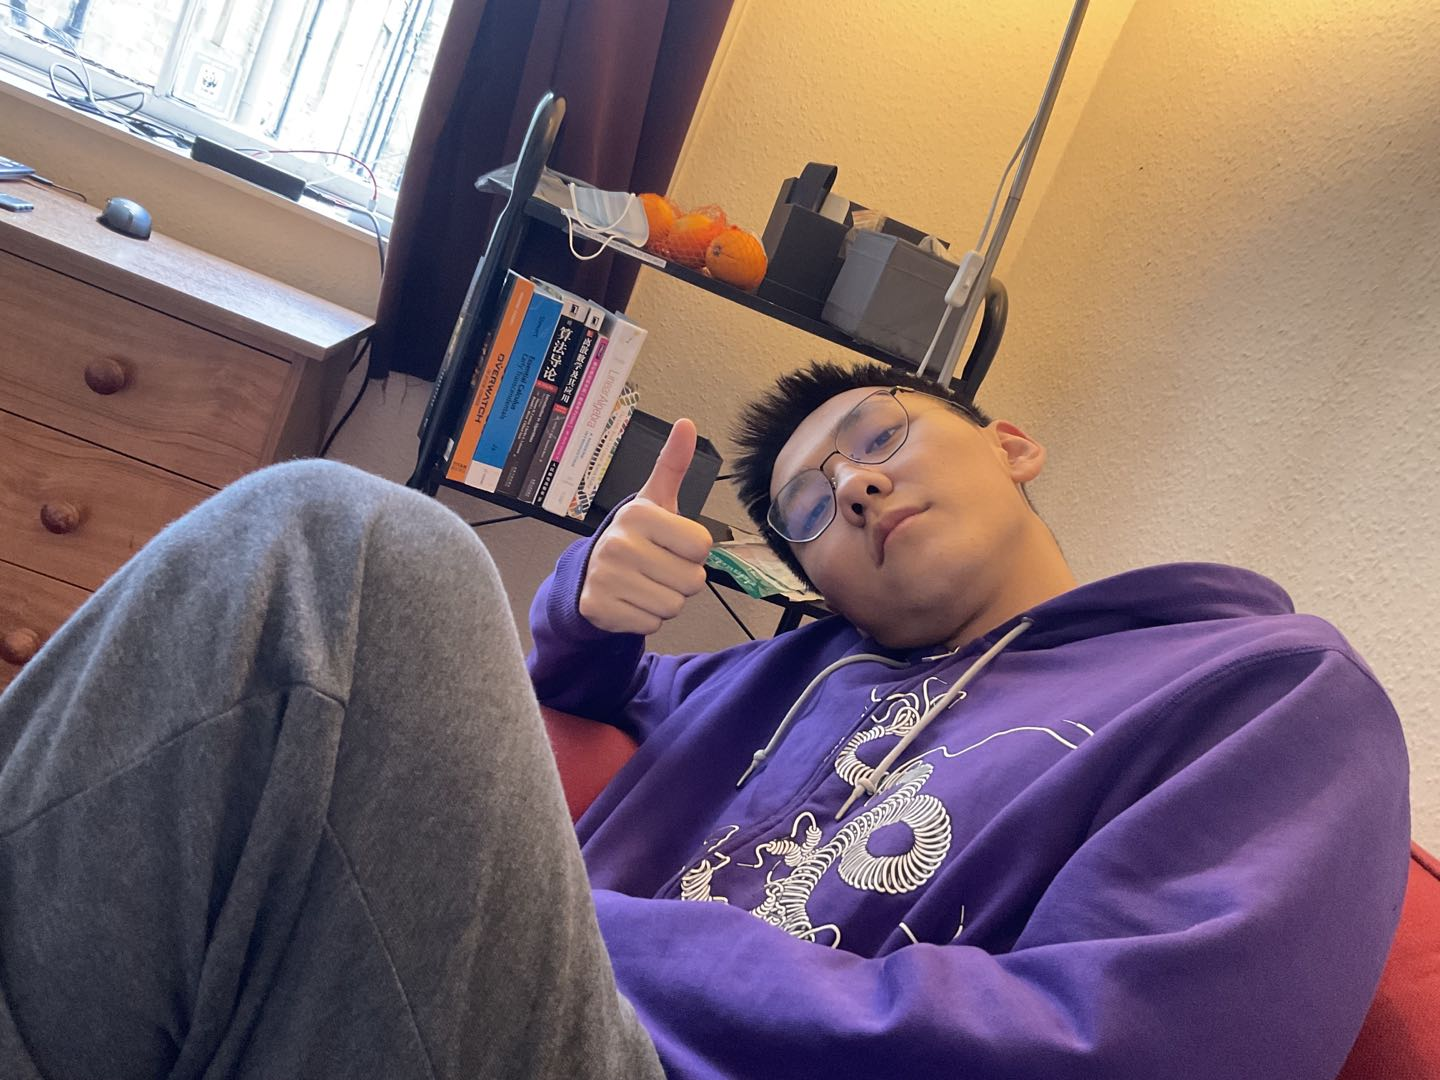
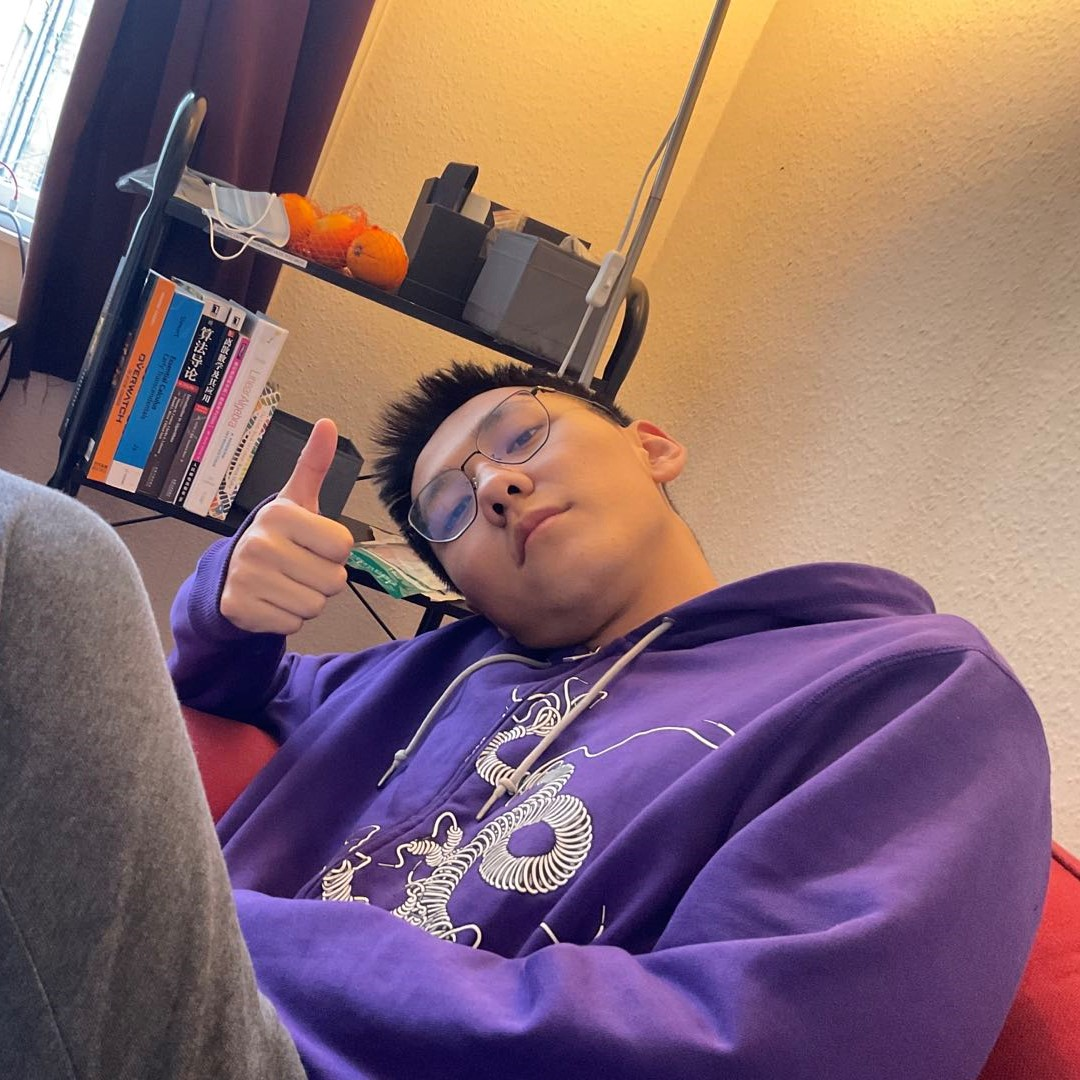
Site updated: 2022-01-02 00:02:47

diff --git a/about/index.html b/about/index.html
@@ -16,15 +16,15 @@
   <meta name="author" content="Andy">
   <meta name="keywords" content="">
   
-    <meta name="description" content="正在读的书: The Little Book about Color 正在玩的游戏： Persona 5 Royal">
+    <meta name="description" content="爱丁堡大学大三在读，正在努力找暑期实习。技术虽然不行但是喜欢折腾一些东西。在这个网站上会分享一些我学习到的知识，正在折腾项目的进度，刚刚玩完的游戏的玩后感和看完的书或电影的观后感，希望你会喜欢！ 正在读的书：The Little Book about Color 正在玩的游戏：Persona 5 Royal">
 <meta property="og:type" content="website">
 <meta property="og:title" content="关于">
 <meta property="og:url" content="https://andydiantu.github.io/about/index.html">
 <meta property="og:site_name" content="Andy的小站">
-<meta property="og:description" content="正在读的书: The Little Book about Color 正在玩的游戏： Persona 5 Royal">
+<meta property="og:description" content="爱丁堡大学大三在读，正在努力找暑期实习。技术虽然不行但是喜欢折腾一些东西。在这个网站上会分享一些我学习到的知识，正在折腾项目的进度，刚刚玩完的游戏的玩后感和看完的书或电影的观后感，希望你会喜欢！ 正在读的书：The Little Book about Color 正在玩的游戏：Persona 5 Royal">
 <meta property="og:locale" content="zh_CN">
 <meta property="article:published_time" content="2021-12-29T17:23:26.000Z">
-<meta property="article:modified_time" content="2021-12-30T18:17:40.224Z">
+<meta property="article:modified_time" content="2022-01-01T23:47:22.619Z">
 <meta property="article:author" content="Andy">
 <meta name="twitter:card" content="summary_large_image">
   
@@ -195,7 +195,7 @@
           >
           
             <div class="about-avatar">
-              <img src="/img/avatar.png" srcset="/img/loading.gif" lazyload
+              <img src="/img/picOfMe.jpg" srcset="/img/loading.gif" lazyload
                    class="img-fluid" alt="avatar">
             </div>
           
@@ -213,7 +213,7 @@
         
         
         
-        <a href=https://github.com class="
+        <a href=https://github.com/Andydiantu class="
            hint--bottom hint--rounded"
            aria-label=GitHub
            target="_blank"
@@ -227,10 +227,10 @@
         
         <a href=https://douban.com class="
            hint--bottom hint--rounded"
-           aria-label=豆瓣
+           aria-label=xboxID
            target="_blank"
         >
-          <i class="iconfont icon-douban-fill" aria-hidden="true"></i>
+          <i class="iconfont icon-xbox-fill" aria-hidden="true"></i>
           
         </a>
       
@@ -242,7 +242,7 @@
            
            target="_self"
         >
-          <i class="iconfont icon-wechat-fill" aria-hidden="true"></i>
+          <i class="iconfont icon-playstation-fill" aria-hidden="true"></i>
           
             <img class="qr-img" src="/img/favicon.png" srcset="/img/loading.gif" lazyload alt="qrcode" />
           
@@ -254,8 +254,9 @@
 
 <article class="about-content page-content mt-5">
   <div class="markdown-body">
-    <p>正在读的书: <a target="_blank" rel="noopener" href="https://thelittlebookofcolour.com/">The Little Book about Color</a></p>
-<p>正在玩的游戏： <a target="_blank" rel="noopener" href="https://atlus.com/p5r/">Persona 5 Royal</a></p>
+    <p>爱丁堡大学大三在读，正在努力找暑期实习。技术虽然不行但是喜欢折腾一些东西。在这个网站上会分享一些我学习到的知识，正在折腾项目的进度，刚刚玩完的游戏的玩后感和看完的书或电影的观后感，希望你会喜欢！</p>
+<p>正在读的书：<a target="_blank" rel="noopener" href="https://thelittlebookofcolour.com/">The Little Book about Color</a></p>
+<p>正在玩的游戏：<a target="_blank" rel="noopener" href="https://atlus.com/p5r/">Persona 5 Royal</a></p>
 
   </div>
 

diff --git a/index.html b/index.html
@@ -153,7 +153,7 @@
 </nav>
 
     <div class="banner" id="banner" parallax=true
-         style="background: url('/img/railway.png') no-repeat center center;
+         style="background: url('/img/bannerTesting.png') no-repeat center center;
            background-size: cover;">
       <div class="full-bg-img">
         <div class="mask flex-center" style="background-color: rgba(0, 0, 0, 0.3)">
